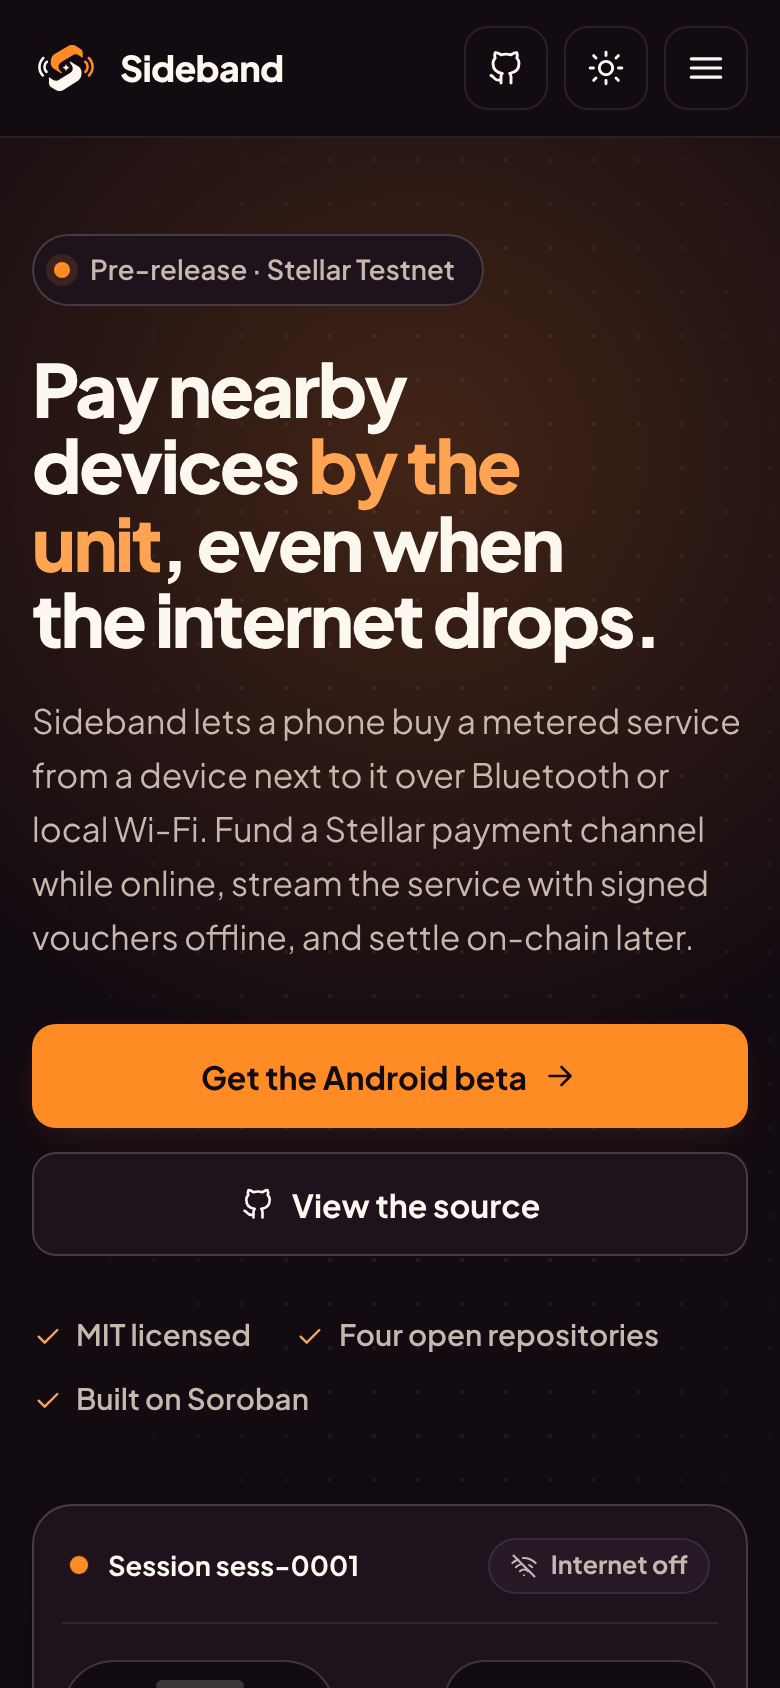
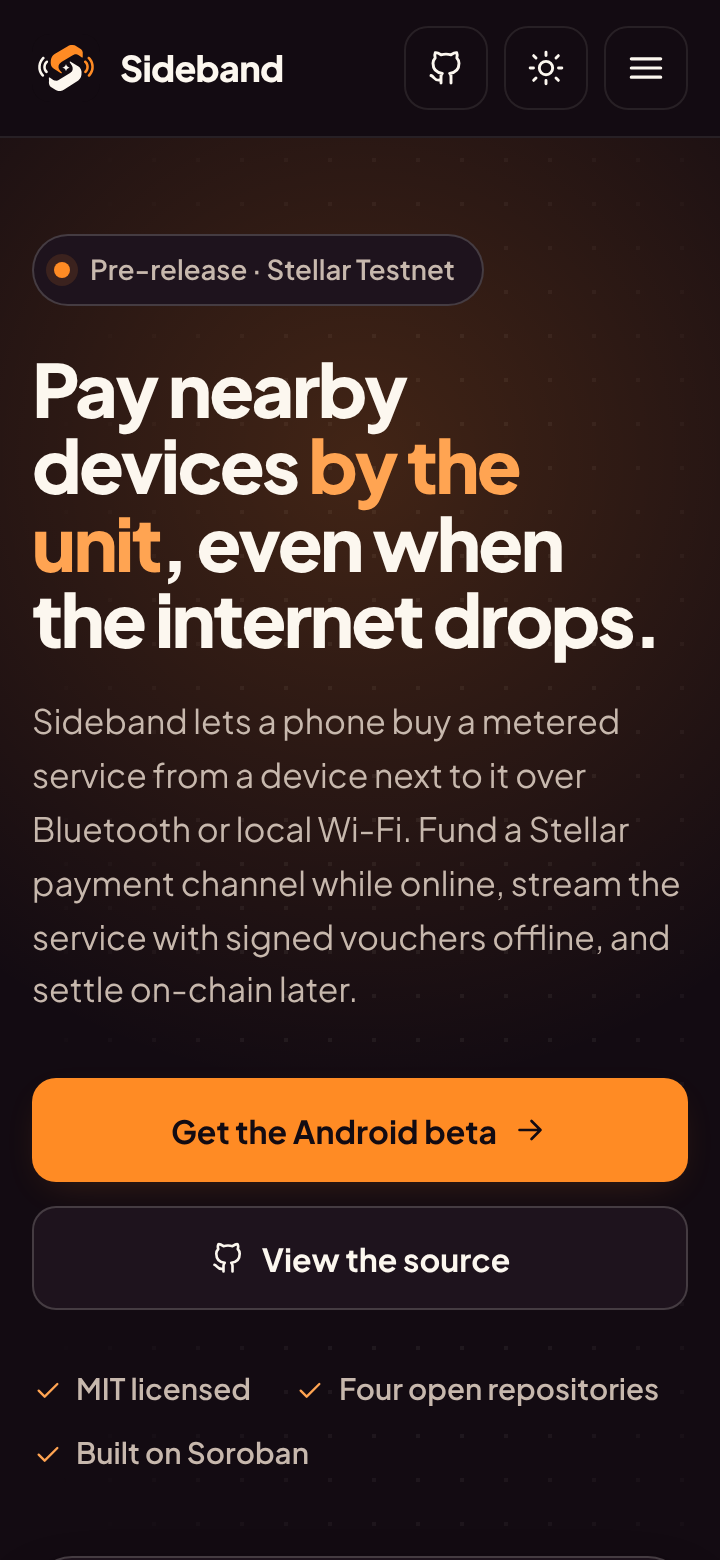
docs(gateway): retake landing screenshots from the production build
Claude-Session: https://claude.ai/code/session_01Dvzq6n93fi21PQ3YhwXWFa

diff --git a/README.md b/README.md
@@ -42,7 +42,8 @@ landing site in [`apps/landing`](./apps/landing).
 
 ## Screenshots
 
-The landing site (`apps/landing`), built and captured with Playwright at 1440 px and 390 px:
+The landing site (`apps/landing`), production build served statically and captured with
+Playwright at 1440 px and 360 px (reduced motion, so animations are shown at rest):
 
 | Light | Dark |
 |---|---|
@@ -50,8 +51,18 @@ The landing site (`apps/landing`), built and captured with Playwright at 1440 px
 | <img src="./docs/screenshots/landing-mobile-light.png" alt="Sideband landing page, light theme, mobile" width="300" /> | <img src="./docs/screenshots/landing-mobile-dark.png" alt="Sideband landing page, dark theme, mobile" width="300" /> |
 
 Full-page captures: [light](./docs/screenshots/landing-desktop-light-full.png) ·
-[dark](./docs/screenshots/landing-desktop-dark-full.png) ·
-[hero animation, mobile](./docs/screenshots/landing-mobile-light-demo.png).
+[dark](./docs/screenshots/landing-desktop-dark-full.png).
+
+Explainers added to the page (inline SVG + CSS, `prefers-reduced-motion` safe, no metrics or
+partner claims):
+
+| Three-phase storyboard | Spend-cap / voucher explainer |
+|---|---|
+| <img src="./docs/screenshots/landing-storyboard-light.png" alt="Storyboard: fund online, stream vouchers offline, settle online" /> | <img src="./docs/screenshots/landing-explainer-dark.png" alt="Interactive spend cap and cumulative voucher explainer, dark theme" /> |
+| **Contract lifecycle (under the hood)** | **Illustrated example use cases** |
+| <img src="./docs/screenshots/landing-lifecycle-light.png" alt="Step-through of init, top_up, settle, close_start, refund" /> | <img src="./docs/screenshots/landing-usecases-dark.png" alt="Example scenarios: local captions, edge compute, metered Wi-Fi where permitted" /> |
+
+Android download at 360 px: [direct latest-APK button, all releases, install help](./docs/screenshots/landing-download-mobile-light.png).
 
 ## Quickstart
 
